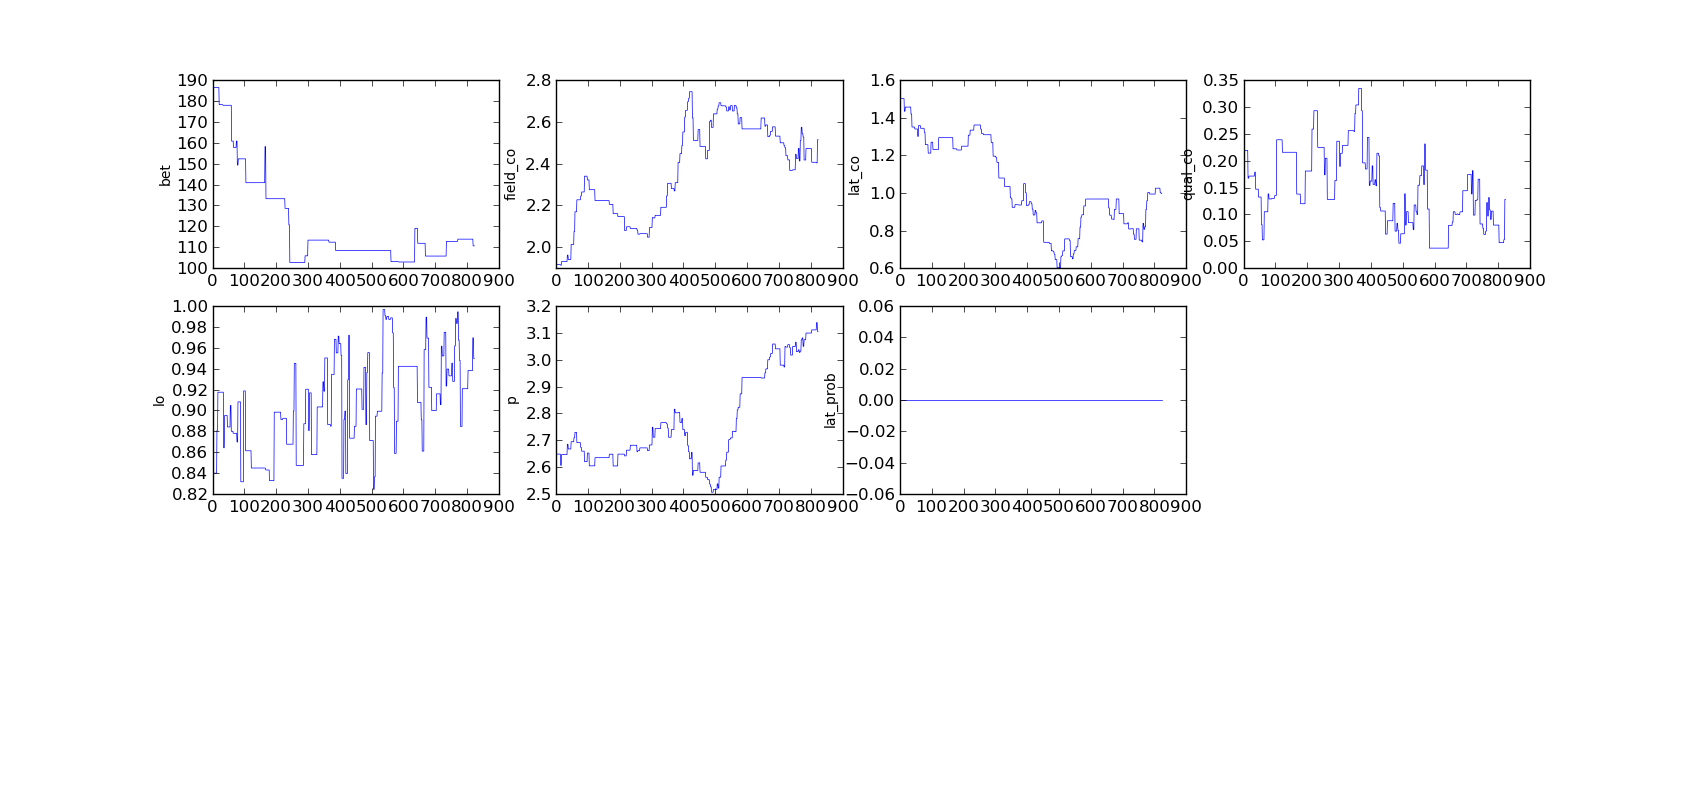
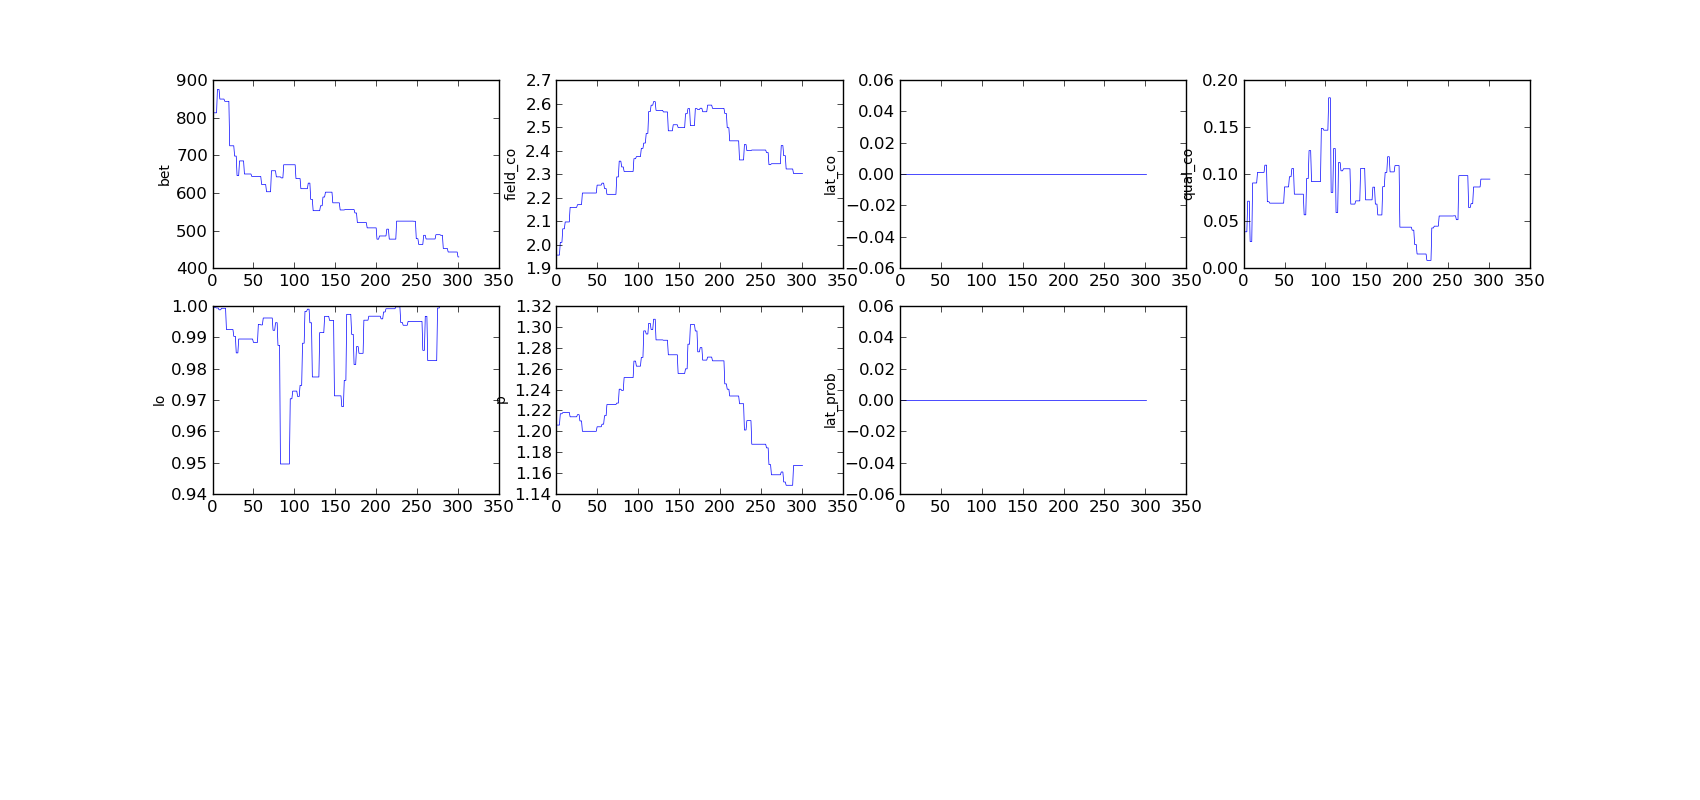
took more lat type stuff out, and seems like there is a bug that was causing an error in the likelihood function calculation.  I dont know what this is yet, but removing the lat type seemed to remove it.

diff --git a/est_loop.py b/est_loop.py
@@ -36,20 +36,20 @@ def update_cits(cit_params):
     # updates cit parameters
 
     [alp, gam, bet] = cit_params
-    for qual in range(3):
+    for qual in range(1): #all qualities share parameters!
         for field in range(2):
             for lat in range(2):
                 alp[qual][field][lat]\
                     = math.exp(math.log(alp[qual][field][lat])
-                                   + random.gauss(0,.1))
+                                   + random.gauss(0,.05))
                 gam[qual][field][lat]\
                     = norm.cdf(norm.ppf(deepcopy(gam[qual][field][lat]),
-                        0, 1) + random.gauss(0, 1), 0, 1)
+                        0, 1) + random.gauss(0, 0.3), 0, 1)
                 #CHANGE WHEN BRING BACK LAT
                 if lat == 1:
                     alp[qual][field][lat] = 0.1 
                     gam[qual][field][lat] = 0.1
-    bet = math.exp(math.log(bet) + random.gauss(0,.1))
+    bet = math.exp(math.log(bet) + random.gauss(0,.05))
     cit_params_u = [alp, gam, bet]
     return cit_params_u
 
@@ -63,7 +63,7 @@ def update_movs(big_mov_params):
     mov_params = mov_params.astype('float64')
     mov_params['qual'] = mov_params['qual'] + random.gauss(0,0.05)
     mov_params['field'] = mov_params['field'] + random.gauss(0,0.05)
-    mov_params['lat'] = mov_params['lat'] + random.gauss(0,0.05)
+    # mov_params['lat'] = mov_params['lat'] + random.gauss(0,0.05)
 
     big_mov_params_u = [mov_params, lam, p]
     return big_mov_params_u
@@ -80,7 +80,7 @@ def calc_cit_lik(cit_params, big_mov_params, citers,
     
     cit_liks, fc_liks, nocit_liks = [], [], []
     lik_pieces_u = deepcopy(lik_pieces)
-    for lat in range(2):
+    for lat in range(1):
         cit_liks.append(citers.groupby('au')\
                     .apply(lambda x: cd.cit_lik_cit(cit_params_u[0],
                            cit_params_u[2], cit_params_u[1], x, dep_year, lat)))
@@ -103,11 +103,12 @@ def recalc_lik(lik_pieces_u, lp_u, mult_by):
     # recalculates lik from updates lik_pieces
 
     lik_mid = []
-    not_lp = mult_by.apply(lambda x: max(1 - lp_u, x))
-    lik_pieces_u[0]['not_lp'] = not_lp
+    # not_lp = mult_by.apply(lambda x: max(1 - lp_u, x))
+    # lik_pieces_u[0]['not_lp'] = not_lp
     lik_mid.append(lik_pieces_u[0].prod(axis = 1))
-    lik_mid.append(lik_pieces_u[1].prod(axis = 1) * lp_u)
-    lik_big = lik_mid[0] + lik_mid[1]
+    # lik_mid.append(lik_pieces_u[1].prod(axis = 1) * lp_u)
+    # lik_big = lik_mid[0] + lik_mid[1]
+    lik_big = lik_mid[0]
     try:
         lik_u = lik_big.apply(lambda x: math.log(x)).sum()
     except Exception as e:
@@ -142,7 +143,7 @@ def calc_mov_lik(cit_params, big_mov_params,
                               0.9, deepcopy(init))
 
     mlik = []
-    for lat in range(2):
+    for lat in range(1):
         mlik.append(mov_dat.groupby('au')\
                 .apply(lambda x: cd.mov_lik(trans_u, x, lat)))
         lik_pieces_u[lat]['mlik'] = mlik[lat]
@@ -223,7 +224,7 @@ def write_me(cit_params, big_mov_params, lp, out_writer, out_file):
     # writeable form
     cit_write = []
     for pnum in range(2):
-        for qual in range(3):
+        for qual in range(1):
             for field in range(2):
                 for lat in range(2):
                     if field == 0 and lat == 1:

diff --git a/discrete.py b/discrete.py
@@ -22,20 +22,20 @@ def main():
     #INITIAL CIT PARAMETERS (TO BE MOVED)
     alp = tree()
     gam = tree()
-    for qual in range(3):
+    for qual in range(1):
         for field in range(2):
             for lat in range(2):
                 alp[qual][field][lat] = 0.1
                 gam[qual][field][lat] = 0.1
-    bet = 100
+    bet = 1000
 
     # INITIAL MOV PARAMETERS (TO BE MOVED)
-    mov_params = pd.Series({'qual': 1, 'field': 1, 'lat': 1})
+    mov_params = pd.Series({'qual': 1, 'field': 1, 'lat': 0})
 
     # OTHER PARAMETERS (TO BE MOVED)
     lp = 0.0 #latent type probability
     lo = 0.15 #offer arrival rate
-    p = 3 #signing bonus distribution parameter
+    p = 1.1 #signing bonus distribution parameter
 
     # PUT PARAMS INTO BOXES FOR EASY MOVING
     big_mov_params = [mov_params, lo, p]
@@ -61,11 +61,11 @@ def main():
     # GET INITIAL LIKELIHOOD
     init, trans = vd.val_init(big_mov_params, dep_stats, 0.9, init)
     mlik = []
-    for lat in range(2):
+    for lat in range(1):
         mlik.append(mov_dat.groupby('au').apply(lambda x: cd.mov_lik(trans, x, lat)))
 
     cit_liks, fc_liks, nocit_liks = [], [], []
-    for lat in range(2):
+    for lat in range(1):
         cit_liks.append(citers.groupby('au')\
                     .apply(lambda x: cd.cit_lik_cit(alp, bet, gam, x, dep_year, lat)))
         fc_liks.append(first_cits.groupby('au')\
@@ -75,18 +75,19 @@ def main():
 
     # CALCULATE 
     lik_pieces = []
-    for k in range(2):
+    for k in range(1):
         lik_dat = pd.DataFrame(mlik[k], columns=['mlik'])
         lik_dat['cit_liks'] = cit_liks[k]
         lik_dat['fc_liks'] = fc_liks[k]
         lik_dat['nocit_liks'] = nocit_liks[k]
         lik_pieces.append(lik_dat)
     lik_mid = []
-    not_lp = mult_by.apply(lambda x: max(1 - lp, x))
-    lik_pieces[0]['not_lp'] = not_lp
+    # not_lp = mult_by.apply(lambda x: max(1 - lp, x))
+    # lik_pieces[0]['not_lp'] = not_lp
     lik_mid.append(lik_pieces[0].prod(axis = 1))
-    lik_mid.append(lik_pieces[1].prod(axis = 1) * lp)
-    lik_big = lik_mid[0] + lik_mid[1]
+    # lik_mid.append(lik_pieces[1].prod(axis = 1) * lp)
+    # lik_big = lik_mid[0] + lik_mid[1]
+    lik_big = lik_mid[0]
     lik = lik_big.apply(lambda x: math.log(x)).sum()
 
     # CALL ESTIMATION LOOP

diff --git a/cit_defs.py b/cit_defs.py
@@ -32,8 +32,10 @@ def cit_lik_no_cit(alp, bet, gam, dep_aut, dep_year, lat):
     if lat == 1 and lin1['isField'] == 0:
         return np.nan
     else:
-        palp = alp[lin1['qual']][lin1['isField']][lat]
-        pgam = gam[lin1['qual']][lin1['isField']][lat]
+        # palp = alp[lin1['qual']][lin1['isField']][lat]
+        # pgam = gam[lin1['qual']][lin1['isField']][lat]
+        palp = alp[0][lin1['isField']][lat]
+        pgam = gam[0][lin1['isField']][lat]
         liks = dep_aut.apply(lambda row: no_cit_inner(row, palp,
                                                        bet, dep_year), axis=1)
         arg = (1 - pgam + pgam * liks.prod())
@@ -46,8 +48,10 @@ def cit_lik_cit(alp, bet, gam, dep_aut, dep_year, lat):
     if lat == 1 and lin1['isField'] == 0:
         return np.nan
     else:
-        palp = alp[lin1['qual']][lin1['isField']][lat]
-        pgam = gam[lin1['qual']][lin1['isField']][lat]
+        # palp = alp[lin1['qual']][lin1['isField']][lat]
+        # pgam = gam[lin1['qual']][lin1['isField']][lat]
+        palp = alp[0][lin1['isField']][lat]
+        pgam = gam[0][lin1['isField']][lat]
         liks = dep_aut.apply(lambda row: no_cit_inner(row, palp,
                                                        bet, dep_year), axis=1)
         arg = (pgam * liks.prod())
@@ -60,8 +64,10 @@ def fc_lik(alp, bet, gam, dep_aut, dep_year, lat):
     if lat == 1 and lin1['isField'] == 0:
         return np.nan
     else:
-        palp = alp[lin1['qual']][lin1['isField']][lat]
-        pgam = gam[lin1['qual']][lin1['isField']][lat]
+        # palp = alp[lin1['qual']][lin1['isField']][lat]
+        # pgam = gam[lin1['qual']][lin1['isField']][lat]
+        palp = alp[0][lin1['isField']][lat]
+        pgam = gam[0][lin1['isField']][lat]
         liks = dep_aut.apply(lambda row: cit_inner(row, palp,
                                                        bet, dep_year), axis=1)
         arg = (pgam * liks.prod())

diff --git a/from_ham/make_plots.py b/from_ham/make_plots.py
@@ -23,16 +23,16 @@ def mkplt(x, sp1, sp2, sp3, y_name, ytop=0, log=False, ppf=False):
 fig1 = plt.figure(figsize=(17,  8),  dpi=80)
 mkplt(p['alp_q0_f0_l0'],  3, 4, 1, 'alp_q0_f0_l0', 0)
 mkplt(p[' alp_q0_f1_l0'], 3, 4, 2, 'alp_q0_f1_l0', 0)
-mkplt(p[' alp_q1_f0_l0'], 3, 4, 3, 'alp_q1_f0_l0', 0)
-mkplt(p[' alp_q1_f1_l0'], 3, 4, 4, 'alp_q1_f1_l0', 0)
-mkplt(p[' alp_q2_f0_l0'], 3, 4, 5, 'alp_q2_f0_l0', 0)
-mkplt(p[' alp_q2_f1_l0'], 3, 4, 6, 'alp_q2_f1_l0', 0)
+# mkplt(p[' alp_q1_f0_l0'], 3, 4, 3, 'alp_q1_f0_l0', 0)
+# mkplt(p[' alp_q1_f1_l0'], 3, 4, 4, 'alp_q1_f1_l0', 0)
+# mkplt(p[' alp_q2_f0_l0'], 3, 4, 5, 'alp_q2_f0_l0', 0)
+# mkplt(p[' alp_q2_f1_l0'], 3, 4, 6, 'alp_q2_f1_l0', 0)
 mkplt(p[' gam_q0_f0_l0'], 3, 4, 7, 'gam_q0_f0_l0', 0)
 mkplt(p[' gam_q0_f1_l0'], 3, 4, 8, 'gam_q0_f1_l0', 0)
-mkplt(p[' gam_q1_f0_l0'], 3, 4, 9, 'gam_q1_f0_l0', 0)
-mkplt(p[' gam_q1_f1_l0'], 3, 4, 10, 'gam_q1_f1_l0', 0)
-mkplt(p[' gam_q2_f0_l0'], 3, 4, 11, 'gam_q2_f0_l0', 0)
-mkplt(p[' gam_q2_f1_l0'], 3, 4, 12, 'gam_q2_f1_l0', 0)
+# mkplt(p[' gam_q1_f0_l0'], 3, 4, 9, 'gam_q1_f0_l0', 0)
+# mkplt(p[' gam_q1_f1_l0'], 3, 4, 10, 'gam_q1_f1_l0', 0)
+# mkplt(p[' gam_q2_f0_l0'], 3, 4, 11, 'gam_q2_f0_l0', 0)
+# mkplt(p[' gam_q2_f1_l0'], 3, 4, 12, 'gam_q2_f1_l0', 0)
 plt.savefig('params1_plots_lat.png', bbox_inches=0)
 
 fig2 = plt.figure(figsize=(17,  8),  dpi=80)
